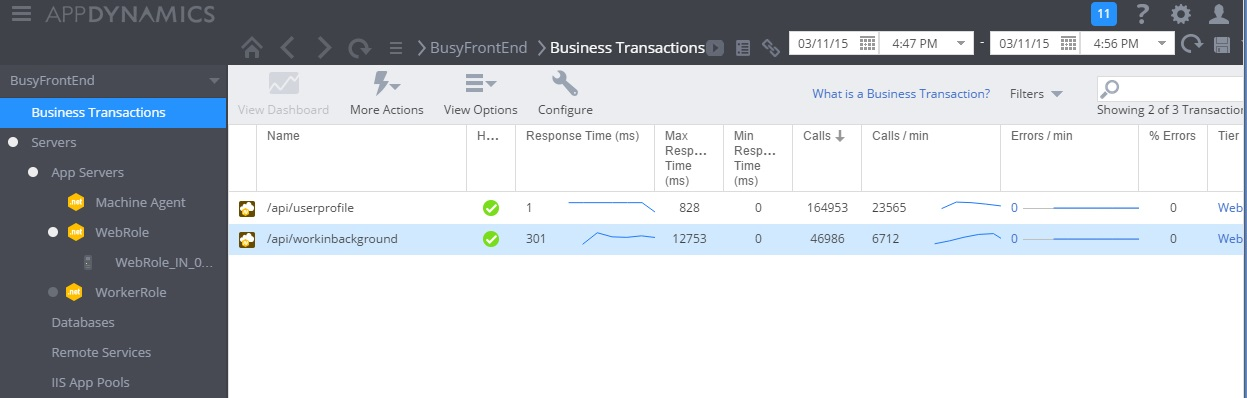
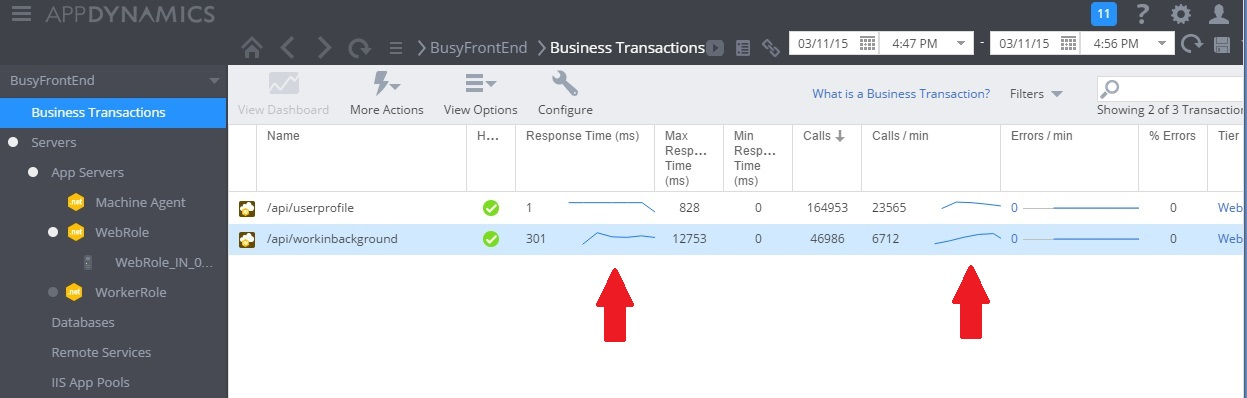
Updated Detection section and graphics

Changed region(s): [[0.4571, 0.6633, 0.518, 0.8744], [0.7618, 0.6633, 0.7923, 0.8744]]

diff --git a/BusyFrontEnd/docs/BusyFrontEnd.md b/BusyFrontEnd/docs/BusyFrontEnd.md
@@ -80,7 +80,7 @@ The following sections apply these steps to the sample application described ear
 
 Instrumenting each method to track the duration and resources consumed by each requests and then monitoring the live system can help to provide an overall view of how the requests compete with each other. During periods of stress, slow-running resource hungry requests will likely impact other operations, and this behavior can be observed by monitoring the system and noting the drop-off in performance. 
 
-The following image shows the Business Transactions pane in AppDyanamics monitoring the sample application. Initially the system is lightly loaded but then users start requesting the `UserProfile` GET operation. The performance is reasonably quick until other users start issuing requests to the `WorkInFrontEnd` controller, when the response time suddenly increases dramatically (see the Response Time (ms) graph in the image). The response time only improves once the volume of requests to the `WorkInFrontEnd` controller diminishes (see the Calls/min graph.)
+The following image shows the Business Transactions pane in AppDyanamics monitoring the sample application. Initially the system is lightly loaded but then users start requesting the `UserProfile` GET operation. The performance is reasonably quick until other users start issuing requests to the `WorkInFrontEnd` controller, when the response time suddenly increases dramatically (see the graphic in the Response Time (ms) column in the image). The response time only improves once the volume of requests to the `WorkInFrontEnd` controller diminishes (see the graphic in the Calls/min column.)
 
 ![AppDynamics Business Transactions pane showing the effects of the response times of all requests when the WorkInFrontEnd controller is used][AppDynamics-Transactions-Front-End-Requests]
 
@@ -96,11 +96,9 @@ From the information provided by identifying the points of slow down and the tel
 
 Having identified the possible source of disruptive requests in the system, you should perform tests in a controlled environment to demonstrate any correlations between these requests and the overall performance of the system. As an example, you can perform a series of load tests that include and then omit each request in turn to see the effects. 
 
-The graph below shows the results of a load-test performed against an identical deployment of the cloud service used for the previous tests. The load test used a constant load of 500 users performing the `Get` operation in the `UserProfile` controller alongside a step-load of users performing requests against the `WorkInFrontEnd` controller. Initially, the step-load was 0, so the only active users were performing the `UserProfile` requests and the system was capable of supporting 700 requests per second. After 60 seconds, a load of 100 additional users was started, and these users sent POST requests to the `WorkInFrontEnd` controller. Almost immediately, the request rate for the `UserProfile` controller dropped to about 300 requests per second. As more users were added (in steps of 100) performing POST requests against the `WorkInFrontEnd` controller, the request rate against the `UserProfile` controller gradually diminished further. The volume of requests performed against the `WorkInFrontEnd` controller remained relatively constant. The saturation of the system becomes apparent as the overall rate of both requests tends towards a steady but low limit.
+The graph below shows the results of a load-test performed against an identical deployment of the cloud service used for the previous tests. The load test used a constant load of 500 users performing the `Get` operation in the `UserProfile` controller alongside a step-load of users performing requests against the `WorkInFrontEnd` controller. Initially, the step-load was 0, so the only active users were performing the `UserProfile` requests and the system was capable of supporting 700 requests per second. After 60 seconds, a load of 100 additional users was started, and these users sent POST requests to the `WorkInFrontEnd` controller. Almost immediately, the request rate for the `UserProfile` controller dropped to about 150 requests per second. As more users were added (in steps of 100) performing POST requests against the `WorkInFrontEnd` controller, the request rate against the `UserProfile` controller gradually diminished further. The volume of requests serviced by the `WorkInFrontEnd` controller remained relatively constant. The saturation of the system becomes apparent as the overall rate of both requests tends towards a steady but low limit.
 
 ![Initial load-test results for the WorkInFrontEnd controller][Initial-Load-Test-Results-Front-End]
-
-It is also worth noting the average test time of both sets of requests for future comparison.
 
 ### Reviewing the source code
 
@@ -221,7 +219,7 @@ Repeating the controlled load-test over 5 minutes for users submitting a mixture
 
 ![Load-test results for the BackgroundImageProcessing controller][Load-Test-Results-Background]
 
-This graph confirms the improvement in performance of the system as a result of offloading the intensive processing to the worker role. The overall volume of tests and the average test time is greatly improved compared to the earlier tests.
+This graph confirms the improvement in performance of the system as a result of offloading the intensive processing to the worker role. The overall volume of requests serviced is greatly improved compared to the earlier tests.
 
 Relocating resource-hungry processing to a separate set of processes should improve responsiveness for most requests, but the resource-hungry processing itself may take longer (this duration is not illustrated in the two graphs above, and requires instrumenting and monitoring the worker role.) If there are insufficient worker role instances available to perform the resource-hungry workload, jobs might be queued or otherwise held pending for an indeterminate period. However, it might be possible to expedite critical jobs that must be performed quickly by using a priority queuing mechanism.
 
